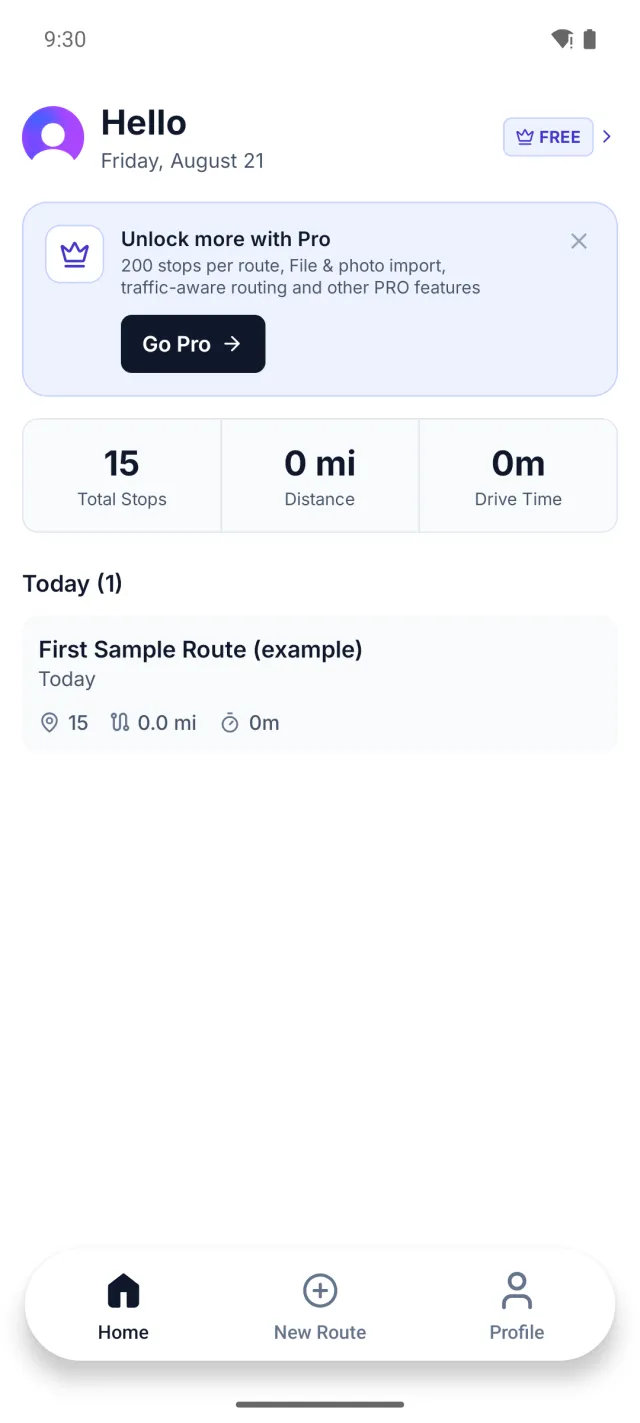
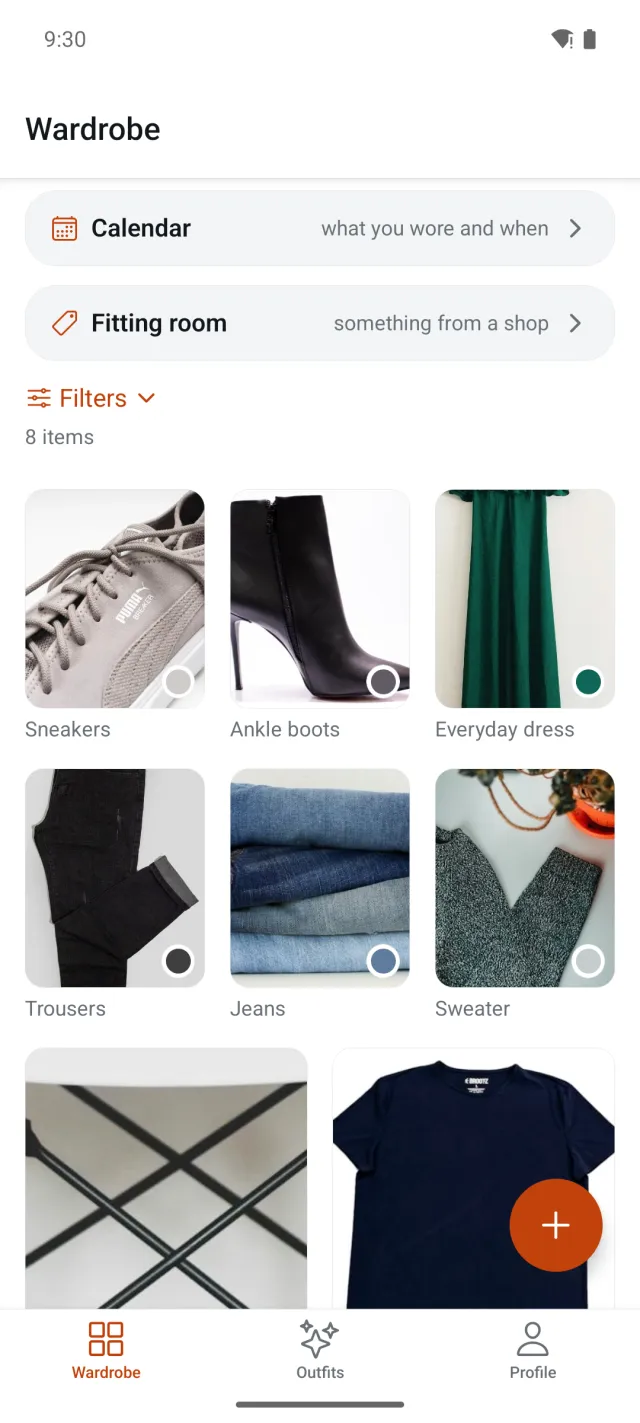
fix: знімок сітки був з чужого застосунку; alt-тексти й цифри розійшлися з доказами

diff --git a/index.html b/index.html
@@ -44,7 +44,7 @@
               src="assets/shots/01-hero.png"
               width="640" height="1422"
               loading="eager" fetchpriority="high" decoding="async"
-              alt="An item card in Ecru with the pair-score explanation open, reading: Both items are neutral — a pairing that never lets you down." />
+              alt="An item card in Ecru with the pair-score explanation open: score 88, the verdict “Wear as is”, and the reason — one item is neutral, so it will sit under any colour, and both are solid, so there is nothing to clash." />
           </picture>
           <figcaption>Tap any score and it tells you why.</figcaption>
         </figure>
@@ -77,8 +77,8 @@
           </p>
           <p>
             That costs about ninety seconds an item. Apps that cut the background with AI
-            do it in three. What the other eighty-seven seconds buy you is a catalog that
-            is right, and a color that was measured rather than guessed.
+            do it in seconds. What the rest of that minute and a half buys you is a catalog
+            that is right, and a color that was measured rather than guessed.
           </p>
           <p>
             When the measurement fails, it says so: <em>“Don’t put a white sheet under a
@@ -117,7 +117,7 @@
     <section class="section" id="pairs">
       <div class="wrap">
         <p class="eyebrow">02 · Know what goes with what</p>
-        <h2>Every other app returns a number. Ecru returns a sentence.</h2>
+        <h2>The rest of the category returns a number. Ecru returns a sentence.</h2>
 
         <div class="versus">
           <div class="versus__cell versus__cell--them">
@@ -168,7 +168,7 @@
                 src="assets/shots/04-pairs.png"
                 width="640" height="1422"
                 loading="lazy" decoding="async"
-                alt="An item card in Ecru showing the “What to wear with” block: several pairs from the wardrobe, each with its own score." />
+                alt="An item card in Ecru showing the “What to wear it with” block: several pairs from the wardrobe, each with its own score." />
             </picture>
             <figcaption>Best pairs first, each score tappable.</figcaption>
           </figure>
@@ -202,7 +202,7 @@
               src="assets/shots/05-builder.png"
               width="640" height="1422"
               loading="lazy" decoding="async"
-              alt="Ecru's outfit builder with the Bottom slot locked to a camel skirt and the remaining slots narrowed to items that work with it." />
+              alt="Ecru's outfit builder with the Bottom slot locked to a pair of jeans and the remaining slots narrowed to items that work with it." />
           </picture>
           <figcaption>Lock what you like; the rest reassembles.</figcaption>
         </figure>
@@ -297,8 +297,8 @@
               <p class="chat__you">What is it? → <strong>Top</strong> → <strong>Sweater</strong> → <strong>Solid</strong></p>
               <p class="chat__them chat__them--verdict">
                 Take it. It'll fit right in.<br />
-                It pairs well with 14 of your 15 items.<br />
-                The colour isn't quite yours — better below the shoulders.
+                It pairs well with 6 of your 6 items.<br />
+                The colour, though, isn't yours — keep it away from your face.
               </p>
             </div>
 
@@ -306,7 +306,7 @@
               The verdict is the average of your five best pairs, not the single best one.
               One flattering pair exists for anything; averaging five means an item that
               works with exactly one pair of jeans does not get called a purchase. At least
-              three pairs have to reach “goes together” before it says take it.
+              three pairs have to reach “Good together” before it says take it.
             </p>
             <p>
               There is no free-text box, on purpose. The app has no network, so a “type

diff --git a/style.css b/style.css
@@ -118,21 +118,6 @@ p { margin: 0 0 1em; max-width: var(--measure); }
   border-top: 1px solid var(--rule);
 }
 
-/* Помітна заглушка замість скриншота, якого ще немає.
-   Мокапів не малюємо — краще видима дірка, ніж вигадка. */
-.shot--missing {
-  aspect-ratio: 9 / 19.5;
-  display: grid;
-  place-content: center;
-  padding: 1.5rem;
-  text-align: center;
-  font-size: 0.85rem;
-  color: var(--muted);
-  background: repeating-linear-gradient(
-    45deg, var(--paper-raised), var(--paper-raised) 10px, var(--paper) 10px, var(--paper) 20px
-  );
-}
-
 .dark {
   background: var(--paper-dark);
   color: var(--ink-dark);
